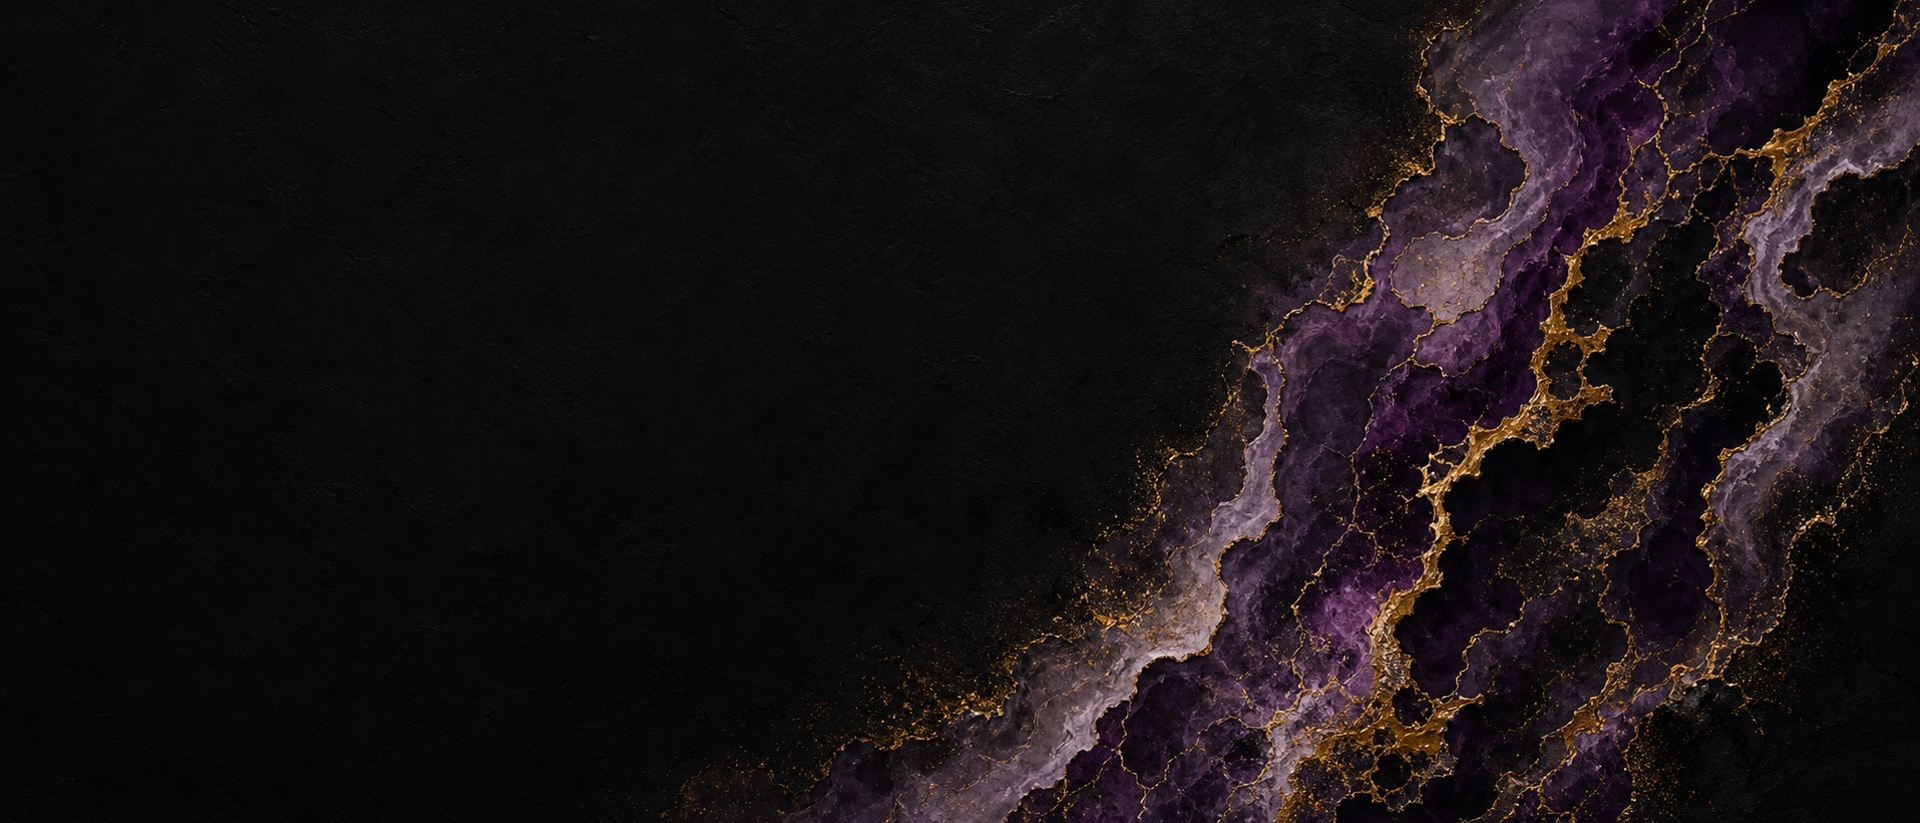
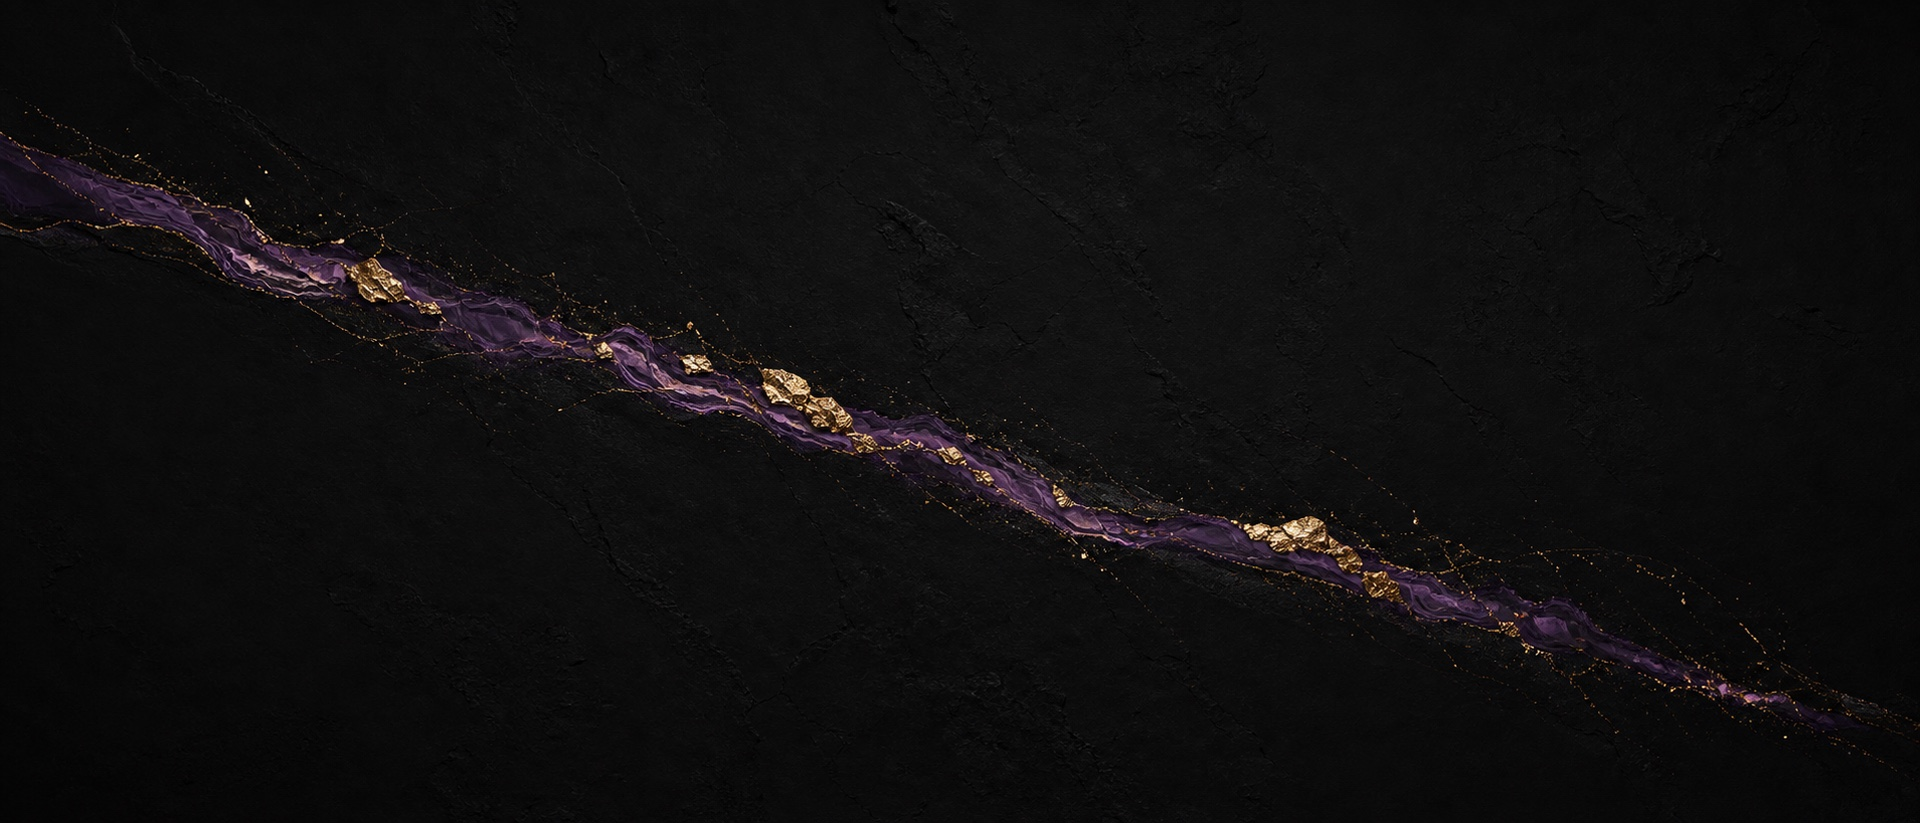
Swap in thin diagonal gold-vein marble variant

Changed region(s): [[0.0, 0.0, 1.0, 1.0], [0.0, 0.2734, 0.0312, 0.3038]]

diff --git a/style.css b/style.css
@@ -271,7 +271,7 @@ ul { list-style: none; }
   inset: 0;
   z-index: -1;
   pointer-events: none;
-  background-image: url("assets/hero-marble.jpg?v=9");
+  background-image: url("assets/hero-marble.jpg?v=10");
   background-size: cover;
   background-position: center;
   background-repeat: no-repeat;
@@ -1069,7 +1069,7 @@ ul { list-style: none; }
   background:
     linear-gradient(180deg, transparent 0%, transparent 55%, var(--bg) 92%),
     radial-gradient(ellipse 65% 55% at 50% 40%, rgba(234, 179, 8, 0.28) 0%, transparent 70%),
-    url("assets/hero-marble.jpg?v=9") center / cover no-repeat,
+    url("assets/hero-marble.jpg?v=10") center / cover no-repeat,
     var(--bg);
 }
 
